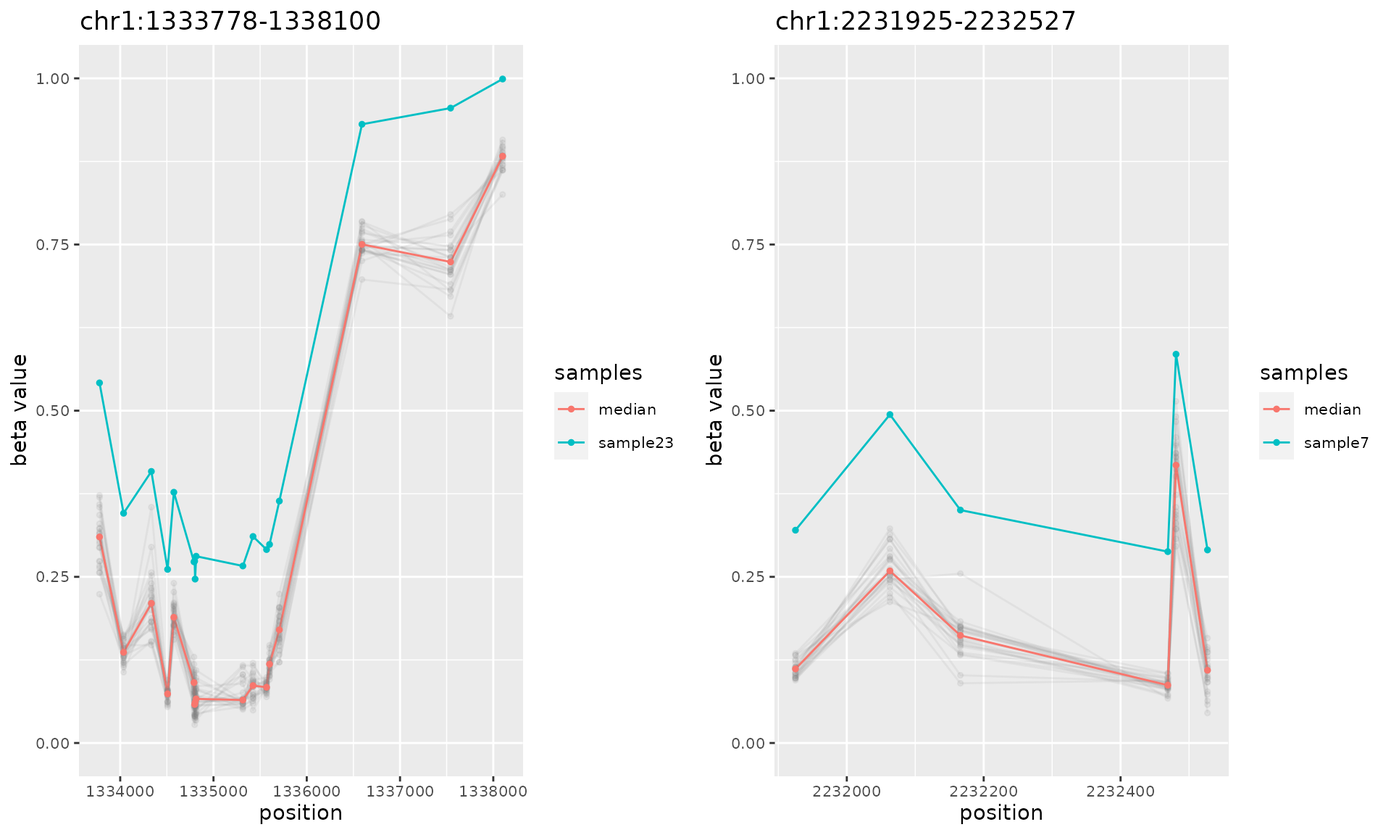
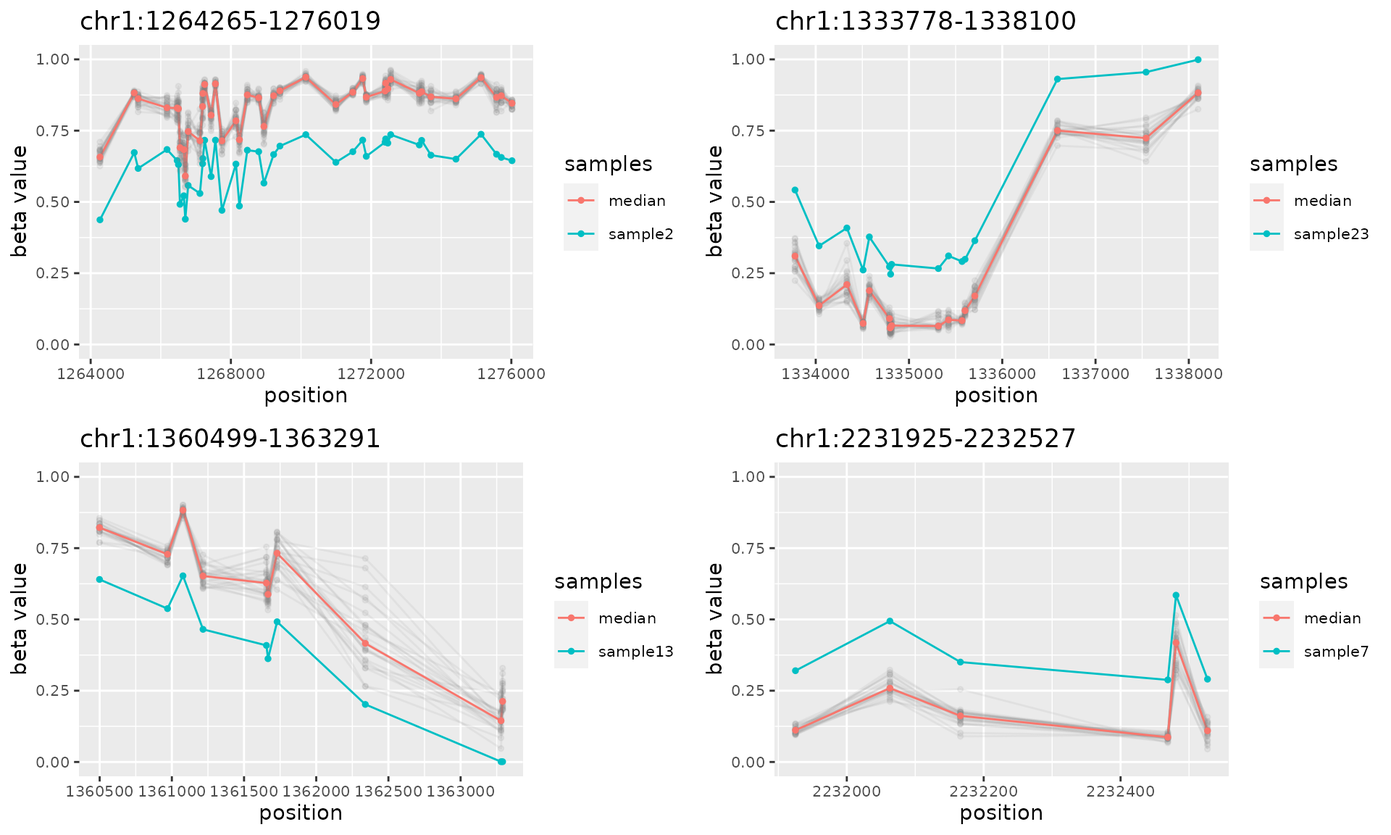
Built site for ramr: 1.1.2@1a902dc

diff --git a/articles/ramr.html b/articles/ramr.html
@@ -33,7 +33,7 @@
       </button>
       <span class="navbar-brand">
         <a class="navbar-link" href="../index.html">ramr</a>
-        <span class="version label label-default" data-toggle="tooltip" data-placement="bottom" title="Released version">1.1.0</span>
+        <span class="version label label-default" data-toggle="tooltip" data-placement="bottom" title="Released version">1.1.2</span>
       </span>
     </div>
 
@@ -264,7 +264,7 @@ mcols(data.ranges) &lt;- data.betas
 
 <span class="co"># non-unique AMRs outside of regions with unique AMRs</span>
   <span class="va">amrs.nonunique</span> <span class="op">&lt;-</span>
-    <span class="fu"><a href="../reference/simulateAMR.html">simulateAMR</a></span><span class="op">(</span><span class="va">ramr.data</span>, nsamples<span class="op">=</span><span class="fl">3</span>, exclude.ranges<span class="op">=</span><span class="va">amrs.unique</span>,
+    <span class="fu"><a href="../reference/simulateAMR.html">simulateAMR</a></span><span class="op">(</span><span class="va">ramr.data</span>, nsamples<span class="op">=</span><span class="fl">4</span>, exclude.ranges<span class="op">=</span><span class="va">amrs.unique</span>,
                 samples.per.region<span class="op">=</span><span class="fl">2</span>, min.cpgs<span class="op">=</span><span class="fl">5</span>, merge.window<span class="op">=</span><span class="fl">1000</span><span class="op">)</span>
   
 <span class="co"># random noise outside of AMR regions</span>
@@ -276,14 +276,14 @@ mcols(data.ranges) &lt;- data.betas
 <span class="co"># "smooth" methylation data without AMRs (negative control)</span>
   <span class="va">smooth.data</span> <span class="op">&lt;-</span>
     <span class="fu"><a href="../reference/simulateData.html">simulateData</a></span><span class="op">(</span><span class="va">ramr.data</span>, nsamples<span class="op">=</span><span class="fl">25</span>, cores<span class="op">=</span><span class="fl">2</span><span class="op">)</span>
-<span class="co">#&gt; Simulating data [1.132s]</span>
+<span class="co">#&gt; Simulating data [1.125s]</span>
   
 <span class="co"># methylation data with AMRs and noise</span>
   <span class="va">noisy.data</span> <span class="op">&lt;-</span>
     <span class="fu"><a href="../reference/simulateData.html">simulateData</a></span><span class="op">(</span><span class="va">ramr.data</span>, nsamples<span class="op">=</span><span class="fl">25</span>,
                  amr.ranges<span class="op">=</span><span class="fu"><a href="https://rdrr.io/pkg/S4Vectors/man/Vector-class.html" class="external-link">c</a></span><span class="op">(</span><span class="va">amrs.unique</span>, <span class="va">amrs.nonunique</span>, <span class="va">noise</span><span class="op">)</span>, cores<span class="op">=</span><span class="fl">2</span><span class="op">)</span>
-<span class="co">#&gt; Simulating data [1.103s]</span>
-<span class="co">#&gt; Introducing epimutations [2.384s]</span>
+<span class="co">#&gt; Simulating data [1.056s]</span>
+<span class="co">#&gt; Introducing epimutations [2.371s]</span>
   
 <span class="co"># that's how regions look like</span>
   <span class="kw"><a href="https://rdrr.io/r/base/library.html" class="external-link">library</a></span><span class="op">(</span><span class="va">gridExtra</span><span class="op">)</span>
@@ -294,13 +294,13 @@ mcols(data.ranges) &lt;- data.betas
 <span class="co">#&gt; </span>
 <span class="co">#&gt;     combine</span>
 
-  <span class="fu"><a href="https://rdrr.io/pkg/BiocGenerics/man/do.call.html" class="external-link">do.call</a></span><span class="op">(</span><span class="st">"grid.arrange"</span>, <span class="fu"><a href="https://rdrr.io/pkg/S4Vectors/man/Vector-class.html" class="external-link">c</a></span><span class="op">(</span><span class="fu"><a href="../reference/plotAMR.html">plotAMR</a></span><span class="op">(</span><span class="va">noisy.data</span>, <span class="cn">NULL</span>, <span class="va">amrs.unique</span><span class="op">[</span><span class="fl">1</span><span class="op">:</span><span class="fl">2</span><span class="op">]</span><span class="op">)</span>, ncol<span class="op">=</span><span class="fl">2</span><span class="op">)</span><span class="op">)</span></code></pre></div>
+  <span class="fu"><a href="https://rdrr.io/pkg/BiocGenerics/man/do.call.html" class="external-link">do.call</a></span><span class="op">(</span><span class="st">"grid.arrange"</span>, <span class="fu"><a href="https://rdrr.io/pkg/S4Vectors/man/Vector-class.html" class="external-link">c</a></span><span class="op">(</span><span class="fu"><a href="../reference/plotAMR.html">plotAMR</a></span><span class="op">(</span><span class="va">noisy.data</span>, amr.ranges<span class="op">=</span><span class="va">amrs.unique</span><span class="op">[</span><span class="fl">1</span><span class="op">:</span><span class="fl">4</span><span class="op">]</span><span class="op">)</span>, ncol<span class="op">=</span><span class="fl">2</span><span class="op">)</span><span class="op">)</span></code></pre></div>
 <p><img src="ramr_files/figure-html/unnamed-chunk-3-1.png" width="100%" height="100%"></p>
 <div class="sourceCode" id="cb7"><pre class="downlit sourceCode r">
-<code class="sourceCode R">  <span class="fu"><a href="https://rdrr.io/pkg/BiocGenerics/man/do.call.html" class="external-link">do.call</a></span><span class="op">(</span><span class="st">"grid.arrange"</span>, <span class="fu"><a href="https://rdrr.io/pkg/S4Vectors/man/Vector-class.html" class="external-link">c</a></span><span class="op">(</span><span class="fu"><a href="../reference/plotAMR.html">plotAMR</a></span><span class="op">(</span><span class="va">noisy.data</span>, <span class="cn">NULL</span>, <span class="fu"><a href="https://rdrr.io/pkg/BiocGenerics/man/sort.html" class="external-link">sort</a></span><span class="op">(</span><span class="va">amrs.nonunique</span><span class="op">)</span><span class="op">[</span><span class="fl">1</span><span class="op">:</span><span class="fl">6</span><span class="op">]</span><span class="op">)</span>, ncol<span class="op">=</span><span class="fl">2</span><span class="op">)</span><span class="op">)</span></code></pre></div>
+<code class="sourceCode R">  <span class="fu"><a href="https://rdrr.io/pkg/BiocGenerics/man/do.call.html" class="external-link">do.call</a></span><span class="op">(</span><span class="st">"grid.arrange"</span>, <span class="fu"><a href="https://rdrr.io/pkg/S4Vectors/man/Vector-class.html" class="external-link">c</a></span><span class="op">(</span><span class="fu"><a href="../reference/plotAMR.html">plotAMR</a></span><span class="op">(</span><span class="va">noisy.data</span>, amr.ranges<span class="op">=</span><span class="fu"><a href="https://rdrr.io/pkg/BiocGenerics/man/sort.html" class="external-link">sort</a></span><span class="op">(</span><span class="va">amrs.nonunique</span><span class="op">)</span><span class="op">[</span><span class="fl">1</span><span class="op">:</span><span class="fl">8</span><span class="op">]</span><span class="op">)</span>, ncol<span class="op">=</span><span class="fl">2</span><span class="op">)</span><span class="op">)</span></code></pre></div>
 <p><img src="ramr_files/figure-html/unnamed-chunk-3-2.png" width="100%" height="100%"></p>
 <div class="sourceCode" id="cb8"><pre class="downlit sourceCode r">
-<code class="sourceCode R">  <span class="fu"><a href="https://rdrr.io/pkg/BiocGenerics/man/do.call.html" class="external-link">do.call</a></span><span class="op">(</span><span class="st">"grid.arrange"</span>, <span class="fu"><a href="https://rdrr.io/pkg/S4Vectors/man/Vector-class.html" class="external-link">c</a></span><span class="op">(</span><span class="fu"><a href="../reference/plotAMR.html">plotAMR</a></span><span class="op">(</span><span class="va">noisy.data</span>, <span class="cn">NULL</span>, <span class="va">noise</span><span class="op">[</span><span class="fl">1</span><span class="op">:</span><span class="fl">2</span><span class="op">]</span><span class="op">)</span>, ncol<span class="op">=</span><span class="fl">2</span><span class="op">)</span><span class="op">)</span>
+<code class="sourceCode R">  <span class="fu"><a href="https://rdrr.io/pkg/BiocGenerics/man/do.call.html" class="external-link">do.call</a></span><span class="op">(</span><span class="st">"grid.arrange"</span>, <span class="fu"><a href="https://rdrr.io/pkg/S4Vectors/man/Vector-class.html" class="external-link">c</a></span><span class="op">(</span><span class="fu"><a href="../reference/plotAMR.html">plotAMR</a></span><span class="op">(</span><span class="va">noisy.data</span>, amr.ranges<span class="op">=</span><span class="va">noise</span><span class="op">[</span><span class="fl">1</span><span class="op">:</span><span class="fl">4</span><span class="op">]</span><span class="op">)</span>, ncol<span class="op">=</span><span class="fl">2</span><span class="op">)</span><span class="op">)</span>
 <span class="co">#&gt; geom_path: Each group consists of only one observation. Do you need to adjust the group</span>
 <span class="co">#&gt; aesthetic?</span></code></pre></div>
 <p><img src="ramr_files/figure-html/unnamed-chunk-3-3.png" width="100%" height="100%"></p>
@@ -309,28 +309,34 @@ mcols(data.ranges) &lt;- data.betas
 <span class="co"># can we find them?</span>
   <span class="fu"><a href="https://rdrr.io/r/base/system.time.html" class="external-link">system.time</a></span><span class="op">(</span><span class="va">found</span> <span class="op">&lt;-</span> <span class="fu"><a href="../reference/getAMR.html">getAMR</a></span><span class="op">(</span><span class="va">noisy.data</span>, ramr.method<span class="op">=</span><span class="st">"beta"</span>, min.cpgs<span class="op">=</span><span class="fl">5</span>,
                               merge.window<span class="op">=</span><span class="fl">1000</span>, qval.cutoff<span class="op">=</span><span class="fl">1e-2</span>, cores<span class="op">=</span><span class="fl">2</span><span class="op">)</span><span class="op">)</span>
-<span class="co">#&gt; Identifying AMRs [4.360s]</span>
+<span class="co">#&gt; Identifying AMRs [4.288s]</span>
 <span class="co">#&gt;    user  system elapsed </span>
-<span class="co">#&gt;   7.097   0.863   4.537</span>
+<span class="co">#&gt;   7.004   0.776   4.453</span>
   
 <span class="co"># all possible regions</span>
   <span class="va">all.ranges</span> <span class="op">&lt;-</span> <span class="fu"><a href="../reference/getUniverse.html">getUniverse</a></span><span class="op">(</span><span class="va">noisy.data</span>, min.cpgs<span class="op">=</span><span class="fl">5</span>, merge.window<span class="op">=</span><span class="fl">1000</span><span class="op">)</span>
   
 <span class="co"># true positives</span>
-  <span class="fu"><a href="https://rdrr.io/r/base/sum.html" class="external-link">sum</a></span><span class="op">(</span><span class="va">found</span> <span class="op"><a href="https://rdrr.io/pkg/IRanges/man/findOverlaps-methods.html" class="external-link">%over%</a></span> <span class="fu"><a href="https://rdrr.io/pkg/S4Vectors/man/Vector-class.html" class="external-link">c</a></span><span class="op">(</span><span class="va">amrs.unique</span>, <span class="va">amrs.nonunique</span><span class="op">)</span><span class="op">)</span>
-<span class="co">#&gt; [1] 56</span>
+  <span class="va">tp</span> <span class="op">&lt;-</span> <span class="fu"><a href="https://rdrr.io/r/base/sum.html" class="external-link">sum</a></span><span class="op">(</span><span class="va">found</span> <span class="op"><a href="https://rdrr.io/pkg/IRanges/man/findOverlaps-methods.html" class="external-link">%over%</a></span> <span class="fu"><a href="https://rdrr.io/pkg/S4Vectors/man/Vector-class.html" class="external-link">c</a></span><span class="op">(</span><span class="va">amrs.unique</span>, <span class="va">amrs.nonunique</span><span class="op">)</span><span class="op">)</span>
   
 <span class="co"># false positives</span>
-  <span class="fu"><a href="https://rdrr.io/r/base/sum.html" class="external-link">sum</a></span><span class="op">(</span><span class="va">found</span> <span class="op"><a href="https://rdrr.io/pkg/IRanges/man/findOverlaps-methods.html" class="external-link">%outside%</a></span> <span class="fu"><a href="https://rdrr.io/pkg/S4Vectors/man/Vector-class.html" class="external-link">c</a></span><span class="op">(</span><span class="va">amrs.unique</span>, <span class="va">amrs.nonunique</span><span class="op">)</span><span class="op">)</span>
-<span class="co">#&gt; [1] 0</span>
+  <span class="va">fp</span> <span class="op">&lt;-</span> <span class="fu"><a href="https://rdrr.io/r/base/sum.html" class="external-link">sum</a></span><span class="op">(</span><span class="va">found</span> <span class="op"><a href="https://rdrr.io/pkg/IRanges/man/findOverlaps-methods.html" class="external-link">%outside%</a></span> <span class="fu"><a href="https://rdrr.io/pkg/S4Vectors/man/Vector-class.html" class="external-link">c</a></span><span class="op">(</span><span class="va">amrs.unique</span>, <span class="va">amrs.nonunique</span><span class="op">)</span><span class="op">)</span>
 
 <span class="co"># true negatives</span>
-  <span class="fu"><a href="https://rdrr.io/r/base/length.html" class="external-link">length</a></span><span class="op">(</span><span class="va">all.ranges</span> <span class="op"><a href="https://rdrr.io/pkg/IRanges/man/findOverlaps-methods.html" class="external-link">%outside%</a></span> <span class="fu"><a href="https://rdrr.io/pkg/S4Vectors/man/Vector-class.html" class="external-link">c</a></span><span class="op">(</span><span class="va">amrs.unique</span>, <span class="va">amrs.nonunique</span><span class="op">)</span><span class="op">)</span>
-<span class="co">#&gt; [1] 206</span>
+  <span class="va">tn</span> <span class="op">&lt;-</span> <span class="fu"><a href="https://rdrr.io/r/base/length.html" class="external-link">length</a></span><span class="op">(</span><span class="va">all.ranges</span> <span class="op"><a href="https://rdrr.io/pkg/IRanges/man/findOverlaps-methods.html" class="external-link">%outside%</a></span> <span class="fu"><a href="https://rdrr.io/pkg/S4Vectors/man/Vector-class.html" class="external-link">c</a></span><span class="op">(</span><span class="va">amrs.unique</span>, <span class="va">amrs.nonunique</span><span class="op">)</span><span class="op">)</span>
   
 <span class="co"># false negatives</span>
-  <span class="fu"><a href="https://rdrr.io/r/base/sum.html" class="external-link">sum</a></span><span class="op">(</span><span class="fu"><a href="https://rdrr.io/pkg/S4Vectors/man/Vector-class.html" class="external-link">c</a></span><span class="op">(</span><span class="va">amrs.unique</span>, <span class="va">amrs.nonunique</span><span class="op">)</span> <span class="op"><a href="https://rdrr.io/pkg/IRanges/man/findOverlaps-methods.html" class="external-link">%outside%</a></span> <span class="va">found</span><span class="op">)</span>
-<span class="co">#&gt; [1] 1</span></code></pre></div>
+  <span class="va">fn</span> <span class="op">&lt;-</span> <span class="fu"><a href="https://rdrr.io/r/base/sum.html" class="external-link">sum</a></span><span class="op">(</span><span class="fu"><a href="https://rdrr.io/pkg/S4Vectors/man/Vector-class.html" class="external-link">c</a></span><span class="op">(</span><span class="va">amrs.unique</span>, <span class="va">amrs.nonunique</span><span class="op">)</span> <span class="op"><a href="https://rdrr.io/pkg/IRanges/man/findOverlaps-methods.html" class="external-link">%outside%</a></span> <span class="va">found</span><span class="op">)</span>
+  
+<span class="co"># accuracy, MCC</span>
+  <span class="va">acc</span> <span class="op">&lt;-</span> <span class="op">(</span><span class="va">tp</span><span class="op">+</span><span class="va">tn</span><span class="op">)</span> <span class="op">/</span> <span class="op">(</span><span class="va">tp</span><span class="op">+</span><span class="va">tn</span><span class="op">+</span><span class="va">fp</span><span class="op">+</span><span class="va">fn</span><span class="op">)</span>
+  <span class="va">mcc</span> <span class="op">&lt;-</span> <span class="op">(</span><span class="va">tp</span><span class="op">*</span><span class="va">tn</span> <span class="op">-</span> <span class="va">fp</span><span class="op">*</span><span class="va">fn</span><span class="op">)</span> <span class="op">/</span> <span class="op">(</span><span class="fu"><a href="https://rdrr.io/r/base/MathFun.html" class="external-link">sqrt</a></span><span class="op">(</span><span class="va">tp</span><span class="op">+</span><span class="va">fp</span><span class="op">)</span><span class="op">*</span><span class="fu"><a href="https://rdrr.io/r/base/MathFun.html" class="external-link">sqrt</a></span><span class="op">(</span><span class="va">tp</span><span class="op">+</span><span class="va">fn</span><span class="op">)</span><span class="op">*</span><span class="fu"><a href="https://rdrr.io/r/base/MathFun.html" class="external-link">sqrt</a></span><span class="op">(</span><span class="va">tn</span><span class="op">+</span><span class="va">fp</span><span class="op">)</span><span class="op">*</span><span class="fu"><a href="https://rdrr.io/r/base/MathFun.html" class="external-link">sqrt</a></span><span class="op">(</span><span class="va">tn</span><span class="op">+</span><span class="va">fn</span><span class="op">)</span><span class="op">)</span>
+  <span class="fu"><a href="https://rdrr.io/r/stats/setNames.html" class="external-link">setNames</a></span><span class="op">(</span><span class="fu"><a href="https://rdrr.io/pkg/S4Vectors/man/Vector-class.html" class="external-link">c</a></span><span class="op">(</span><span class="va">tp</span>, <span class="va">fp</span>, <span class="va">tn</span>, <span class="va">fn</span><span class="op">)</span>, <span class="fu"><a href="https://rdrr.io/pkg/S4Vectors/man/Vector-class.html" class="external-link">c</a></span><span class="op">(</span><span class="st">"TP"</span>, <span class="st">"FP"</span>, <span class="st">"TN"</span>, <span class="st">"FN"</span><span class="op">)</span><span class="op">)</span>
+<span class="co">#&gt;  TP  FP  TN  FN </span>
+<span class="co">#&gt;  57   0 206   1</span>
+  <span class="fu"><a href="https://rdrr.io/r/stats/setNames.html" class="external-link">setNames</a></span><span class="op">(</span><span class="fu"><a href="https://rdrr.io/pkg/S4Vectors/man/Vector-class.html" class="external-link">c</a></span><span class="op">(</span><span class="va">acc</span>, <span class="va">mcc</span><span class="op">)</span>, <span class="fu"><a href="https://rdrr.io/pkg/S4Vectors/man/Vector-class.html" class="external-link">c</a></span><span class="op">(</span><span class="st">"accuracy"</span>, <span class="st">"MCC"</span><span class="op">)</span><span class="op">)</span>
+<span class="co">#&gt;  accuracy       MCC </span>
+<span class="co">#&gt; 0.9962121 0.9889444</span></code></pre></div>
 </div>
 <div id="amr-identification" class="section level1">
 <h1 class="hasAnchor">
@@ -340,7 +346,7 @@ mcols(data.ranges) &lt;- data.betas
 <code class="sourceCode R"><span class="co"># identify AMRs</span>
 <span class="va">amrs</span> <span class="op">&lt;-</span> <span class="fu"><a href="../reference/getAMR.html">getAMR</a></span><span class="op">(</span><span class="va">ramr.data</span>, <span class="va">ramr.samples</span>, ramr.method<span class="op">=</span><span class="st">"beta"</span>, min.cpgs<span class="op">=</span><span class="fl">5</span>,
                merge.window<span class="op">=</span><span class="fl">1000</span>, qval.cutoff<span class="op">=</span><span class="fl">1e-3</span>, cores<span class="op">=</span><span class="fl">2</span><span class="op">)</span>
-<span class="co">#&gt; Identifying AMRs [12.997s]</span>
+<span class="co">#&gt; Identifying AMRs [13.363s]</span>
 
 <span class="co"># inspect</span>
 <span class="fu"><a href="https://rdrr.io/pkg/BiocGenerics/man/sort.html" class="external-link">sort</a></span><span class="op">(</span><span class="va">amrs</span><span class="op">)</span>
@@ -482,7 +488,7 @@ runLOLA(amrs, universe, hg19.coredb, cores=1, redefineUserSets=TRUE)</code></pre
 <span class="co">#&gt;  [1] org.Hs.eg.db_3.13.0                     TxDb.Hsapiens.UCSC.hg19.knownGene_3.2.2</span>
 <span class="co">#&gt;  [3] GenomicFeatures_1.45.0                  AnnotationDbi_1.55.0                   </span>
 <span class="co">#&gt;  [5] Biobase_2.53.0                          annotatr_1.19.0                        </span>
-<span class="co">#&gt;  [7] gridExtra_2.3                           ramr_1.1.0                             </span>
+<span class="co">#&gt;  [7] gridExtra_2.3                           ramr_1.1.2                             </span>
 <span class="co">#&gt;  [9] doRNG_1.8.2                             rngtools_1.5                           </span>
 <span class="co">#&gt; [11] doParallel_1.0.16                       iterators_1.0.13                       </span>
 <span class="co">#&gt; [13] foreach_1.5.1                           GenomicRanges_1.45.0                   </span>

diff --git a/index.html b/index.html
@@ -39,7 +39,7 @@
       </button>
       <span class="navbar-brand">
         <a class="navbar-link" href="index.html">ramr</a>
-        <span class="version label label-default" data-toggle="tooltip" data-placement="bottom" title="Released version">1.1.0</span>
+        <span class="version label label-default" data-toggle="tooltip" data-placement="bottom" title="Released version">1.1.2</span>
       </span>
     </div>
 
@@ -81,7 +81,7 @@
 <h1 class="hasAnchor">
 <a href="#introduction" class="anchor" aria-hidden="true"></a>Introduction</h1>
 <p><em><code>ramr</code></em> is an R package for detection of low-frequency aberrant methylation events in large datasets obtained by methylation profiling using array or high-throughput bisulfite sequencing. In addition, package provides functions to visualize found aberrantly methylated regions (AMRs), to generate sets of all possible regions to be used as reference sets for enrichment analysis, and to generate biologically relevant test datasets for performance evaluation of AMR/DMR search algorithms.</p>
-<p>This readme contains condensed info on <em><code>ramr</code></em> usage. For more, please check function-specific help pages and vignettes.</p>
+<p>This readme contains condensed info on <em><code>ramr</code></em> usage. For more, please check function-specific help pages and vignettes within the R environment or at <a href="https://bbcg.github.io/ramr/articles/ramr.html" class="external-link">GitHub pages</a>.</p>
 <div id="current-features" class="section level2">
 <h2 class="hasAnchor">
 <a href="#current-features" class="anchor" aria-hidden="true"></a>Current Features</h2>
@@ -186,12 +186,12 @@
   
 <span class="co"># that's how regions look like</span>
 <span class="kw"><a href="https://rdrr.io/r/base/library.html" class="external-link">library</a></span><span class="op">(</span><span class="va">gridExtra</span><span class="op">)</span>
-<span class="fu"><a href="https://rdrr.io/r/base/do.call.html" class="external-link">do.call</a></span><span class="op">(</span><span class="st">"grid.arrange"</span>, <span class="fu"><a href="https://rdrr.io/r/base/c.html" class="external-link">c</a></span><span class="op">(</span><span class="fu"><a href="reference/plotAMR.html">plotAMR</a></span><span class="op">(</span><span class="va">data.with.amrs</span>, <span class="cn">NULL</span>, <span class="va">amrs.unique</span><span class="op">[</span><span class="fl">1</span><span class="op">:</span><span class="fl">2</span><span class="op">]</span><span class="op">)</span>, ncol<span class="op">=</span><span class="fl">2</span><span class="op">)</span><span class="op">)</span></code></pre></div>
+<span class="fu"><a href="https://rdrr.io/r/base/do.call.html" class="external-link">do.call</a></span><span class="op">(</span><span class="st">"grid.arrange"</span>, <span class="fu"><a href="https://rdrr.io/r/base/c.html" class="external-link">c</a></span><span class="op">(</span><span class="fu"><a href="reference/plotAMR.html">plotAMR</a></span><span class="op">(</span><span class="va">data.with.amrs</span>, amr.ranges<span class="op">=</span><span class="va">amrs.unique</span><span class="op">[</span><span class="fl">1</span><span class="op">:</span><span class="fl">2</span><span class="op">]</span><span class="op">)</span>, ncol<span class="op">=</span><span class="fl">2</span><span class="op">)</span><span class="op">)</span></code></pre></div>
 <p>The input (or template) object may be obtained using data from various sources. Here we provide two examples:</p>
 <div id="using-data-from-ncbi-geo" class="section level3">
 <h3 class="hasAnchor">
 <a href="#using-data-from-ncbi-geo" class="anchor" aria-hidden="true"></a>Using data from NCBI GEO</h3>
-<p>The following code pulls (NB: very large) raw files from NCBI GEO database, performes normalization and creates <em><code>GRanges</code></em> object for further analysis using <em><code>ramr</code></em> (system requirements: 22GB of disk space, 64GB of RAM)</p>
+<p>The following code pulls (NB: very large) raw files from NCBI GEO database, performs normalization and creates <em><code>GRanges</code></em> object for further analysis using <em><code>ramr</code></em> (system requirements: 22GB of disk space, 64GB of RAM)</p>
 <div class="sourceCode" id="cb6"><pre class="downlit sourceCode r">
 <code class="sourceCode R"><span class="kw"><a href="https://rdrr.io/r/base/library.html" class="external-link">library</a></span><span class="op">(</span><span class="va">minfi</span><span class="op">)</span>
 <span class="kw"><a href="https://rdrr.io/r/base/library.html" class="external-link">library</a></span><span class="op">(</span><span class="va">GEOquery</span><span class="op">)</span>

diff --git a/reference/getUniverse.html b/reference/getUniverse.html
@@ -40,7 +40,7 @@
 
 
 <meta property="og:title" content="Merges, filters and outputs all genomic regions of a given `GRanges` object — getUniverse" />
-<meta property="og:description" content="`getUniverse` returns a GRanges object with all the genomic regions in a
+<meta property="og:description" content="`getUniverse` returns a `GRanges` object with all the genomic regions in a
 dataset, that can be used for AMR enrichment analysis" />
 
 
@@ -82,7 +82,7 @@ dataset, that can be used for AMR enrichment analysis" />
       </button>
       <span class="navbar-brand">
         <a class="navbar-link" href="../index.html">ramr</a>
-        <span class="version label label-default" data-toggle="tooltip" data-placement="bottom" title="Released version">1.1.0</span>
+        <span class="version label label-default" data-toggle="tooltip" data-placement="bottom" title="Released version">1.1.2</span>
       </span>
     </div>
 
@@ -121,7 +121,7 @@ dataset, that can be used for AMR enrichment analysis" />
     </div>
 
     <div class="ref-description">
-    <p>`getUniverse` returns a GRanges object with all the genomic regions in a
+    <p>`getUniverse` returns a `GRanges` object with all the genomic regions in a
 dataset, that can be used for AMR enrichment analysis</p>
     </div>
 
@@ -137,7 +137,7 @@ corresponding beta values included as metadata.</p></td>
     </tr>
     <tr>
       <th>merge.window</th>
-      <td><p>A positive integer. All `data.ranges` genomic locations
+      <td><p>A single integer &gt;= 1. All `data.ranges` genomic locations
 within this distance will be merged (the default: 300).</p></td>
     </tr>
     <tr>
@@ -176,7 +176,7 @@ and `ramr` vignettes for the description of usage and sample data.</p></div>
 <span class='r-in'>  <span class='va'>amrs</span> <span class='op'>&lt;-</span> <span class='fu'><a href='getAMR.html'>getAMR</a></span><span class='op'>(</span><span class='va'>ramr.data</span>, <span class='va'>ramr.samples</span>, ramr.method<span class='op'>=</span><span class='st'>"beta"</span>, min.cpgs<span class='op'>=</span><span class='fl'>5</span>,</span>
 <span class='r-in'>                 merge.window<span class='op'>=</span><span class='fl'>1000</span>, qval.cutoff<span class='op'>=</span><span class='fl'>1e-3</span>, cores<span class='op'>=</span><span class='fl'>2</span><span class='op'>)</span></span>
 <span class='r-msg co'><span class='r-pr'>#&gt;</span> Identifying AMRs</span>
-<span class='r-msg co'><span class='r-pr'>#&gt;</span>  [13.886s]</span>
+<span class='r-msg co'><span class='r-pr'>#&gt;</span>  [13.822s]</span>
 <span class='r-in'></span>
 <span class='r-in'>  <span class='co'># AMR enrichment analysis using LOLA</span></span>
 <span class='r-in'>  <span class='kw'><a href='https://rdrr.io/r/base/library.html'>library</a></span><span class='op'>(</span><span class='va'><a href='http://code.databio.org/LOLA'>LOLA</a></span><span class='op'>)</span></span>

diff --git a/reference/plotAMR.html b/reference/plotAMR.html
@@ -82,7 +82,7 @@ at particular genomic locations." />
       </button>
       <span class="navbar-brand">
         <a class="navbar-link" href="../index.html">ramr</a>
-        <span class="version label label-default" data-toggle="tooltip" data-placement="bottom" title="Released version">1.1.0</span>
+        <span class="version label label-default" data-toggle="tooltip" data-placement="bottom" title="Released version">1.1.2</span>
       </span>
     </div>
 
@@ -128,7 +128,7 @@ at particular genomic locations.</p>
     <div class="ref-usage sourceCode"><pre class='sourceCode r'><code><span class='fu'>plotAMR</span><span class='op'>(</span>
   <span class='va'>data.ranges</span>,
   data.samples <span class='op'>=</span> <span class='cn'>NULL</span>,
-  <span class='va'>ramr.ranges</span>,
+  <span class='va'>amr.ranges</span>,
   highlight <span class='op'>=</span> <span class='cn'>NULL</span>,
   title <span class='op'>=</span> <span class='cn'>NULL</span>,
   window <span class='op'>=</span> <span class='fl'>300</span>
@@ -149,7 +149,7 @@ metadata column names) to be included in the plot. If `NULL` (the default),
 then all samples (metadata columns) are included.</p></td>
     </tr>
     <tr>
-      <th>ramr.ranges</th>
+      <th>amr.ranges</th>
       <td><p>An output of `getAMR` - a `GRanges` object that contain
 aberrantly methylated regions (AMRs).</p></td>
     </tr>
@@ -157,7 +157,7 @@ aberrantly methylated regions (AMRs).</p></td>
       <th>highlight</th>
       <td><p>An optional list of samples to highlight. If NULL (the
 default), will contain sample IDs from the `sample` metadata column of
-`ramr.ranges` object.</p></td>
+`amr.ranges` object.</p></td>
     </tr>
     <tr>
       <th>title</th>
@@ -167,7 +167,7 @@ title is set to a genomic location of particular AMR.</p></td>
     <tr>
       <th>window</th>
       <td><p>An optional integer constant to expand genomic ranges of the
-`ramr.ranges` object (the default: 300).</p></td>
+`amr.ranges` object (the default: 300).</p></td>
     </tr>
     </table>
 
@@ -176,11 +176,11 @@ title is set to a genomic location of particular AMR.</p></td>
     <p>The output is a list of `ggplot` objects.</p>
     <h2 class="hasAnchor" id="details"><a class="anchor" href="#details"></a>Details</h2>
 
-    <p>For every non-overlapping genomic location from `ramr.ranges` object,
+    <p>For every non-overlapping genomic location from `amr.ranges` object,
 `plotAMR` plots and outputs a line graph of methylation beta values taken
 from `data.ranges` for all samples from `data.samples`. Samples bearing
 significantly different methylation profiles ('sample' column of
-`ramr.ranges` object) are highlighted.</p>
+`amr.ranges` object) are highlighted.</p>
     <h2 class="hasAnchor" id="see-also"><a class="anchor" href="#see-also"></a>See also</h2>
 
     <div class='dont-index'><p><code><a href='getAMR.html'>getAMR</a></code> for identification of AMRs,

diff --git a/reference/ramr.data.html b/reference/ramr.data.html
@@ -47,7 +47,7 @@ Current dataset (&quot;ramr.data&quot;) contains beta values for 10000 CpGs
 and 100 samples (&quot;ramr.samples&quot;), and carries 6 unique
 (&quot;ramr.tp.unique&quot;) and 15 non-unique (&quot;ramr.tp.nonunique&quot;)
 true positive AMRs containing at least 10 CpGs with their beta values
-increased/decreased by 0.5" />
+increased/decreased by 0.5." />
 
 
 
@@ -88,7 +88,7 @@ increased/decreased by 0.5" />
       </button>
       <span class="navbar-brand">
         <a class="navbar-link" href="../index.html">ramr</a>
-        <span class="version label label-default" data-toggle="tooltip" data-placement="bottom" title="Released version">1.1.0</span>
+        <span class="version label label-default" data-toggle="tooltip" data-placement="bottom" title="Released version">1.1.2</span>
       </span>
     </div>
 
@@ -133,7 +133,7 @@ Current dataset (<code>"ramr.data"</code>) contains beta values for 10000 CpGs
 and 100 samples (<code>"ramr.samples"</code>), and carries 6 unique
 (<code>"ramr.tp.unique"</code>) and 15 non-unique (<code>"ramr.tp.nonunique"</code>)
 true positive AMRs containing at least 10 CpGs with their beta values
-increased/decreased by 0.5</p>
+increased/decreased by 0.5.</p>
     </div>
 
     <div class="ref-usage sourceCode"><pre class='sourceCode r'><code><span class='fu'><a href='https://rdrr.io/r/utils/data.html'>data</a></span><span class='op'>(</span><span class='va'>ramr</span><span class='op'>)</span></code></pre></div>
@@ -153,7 +153,7 @@ ramr.tp.nonunique"</code>) and <code>"character"</code> (<code>"ramr.samples"</c
 <span class='r-in'>  <span class='va'>amrs</span> <span class='op'>&lt;-</span> <span class='fu'><a href='getAMR.html'>getAMR</a></span><span class='op'>(</span><span class='va'>ramr.data</span>, <span class='va'>ramr.samples</span>, ramr.method<span class='op'>=</span><span class='st'>"beta"</span>, min.cpgs<span class='op'>=</span><span class='fl'>5</span>,</span>
 <span class='r-in'>                 merge.window<span class='op'>=</span><span class='fl'>1000</span>, qval.cutoff<span class='op'>=</span><span class='fl'>1e-3</span>, cores<span class='op'>=</span><span class='fl'>2</span><span class='op'>)</span></span>
 <span class='r-msg co'><span class='r-pr'>#&gt;</span> Identifying AMRs</span>
-<span class='r-msg co'><span class='r-pr'>#&gt;</span>  [12.918s]</span>
+<span class='r-msg co'><span class='r-pr'>#&gt;</span>  [12.836s]</span>
 <span class='r-in'>  <span class='fu'><a href='plotAMR.html'>plotAMR</a></span><span class='op'>(</span><span class='va'>ramr.data</span>, <span class='va'>ramr.samples</span>, <span class='va'>amrs</span><span class='op'>[</span><span class='fl'>1</span><span class='op'>]</span><span class='op'>)</span></span>
 <span class='r-out co'><span class='r-pr'>#&gt;</span> [[1]]</span>
 <span class='r-plt'><img src='ramr.data-1.png' alt='' width='700' height='433' /></span>

diff --git a/reference/getAMR.html b/reference/getAMR.html
@@ -82,7 +82,7 @@ regions (AMRs) for all samples in a dataset." />
       </button>
       <span class="navbar-brand">
         <a class="navbar-link" href="../index.html">ramr</a>
-        <span class="version label label-default" data-toggle="tooltip" data-placement="bottom" title="Released version">1.1.0</span>
+        <span class="version label label-default" data-toggle="tooltip" data-placement="bottom" title="Released version">1.1.2</span>
       </span>
     </div>
 
@@ -254,7 +254,7 @@ distribution are estimated by means of `EnvStats::ebeta` or `ExtDist::eBeta`
 functions, and then used to calculate the probability values, followed by the
 filtering when all CpGs with p-values not greater than `qval.cutoff` are
 retained. Another filtering is then performed to exclude all CpGs within
-`exclude.range`. Next, the retained (significant) CpGs are merged with
+`exclude.range`. Next, the retained (significant) CpGs are merged within
 the window of `merge.window`, and final filtering is applied to AMR genomic
 ranges (by `min.cpgs` and `min.width`).</p>
     <h2 class="hasAnchor" id="see-also"><a class="anchor" href="#see-also"></a>See also</h2>
@@ -269,7 +269,7 @@ and `ramr` vignettes for the description of usage and sample data.</p></div>
 <span class='r-in'>  <span class='fu'>getAMR</span><span class='op'>(</span><span class='va'>ramr.data</span>, <span class='va'>ramr.samples</span>, ramr.method<span class='op'>=</span><span class='st'>"beta"</span>,</span>
 <span class='r-in'>         min.cpgs<span class='op'>=</span><span class='fl'>5</span>, merge.window<span class='op'>=</span><span class='fl'>1000</span>, qval.cutoff<span class='op'>=</span><span class='fl'>1e-3</span>, cores<span class='op'>=</span><span class='fl'>2</span><span class='op'>)</span></span>
 <span class='r-msg co'><span class='r-pr'>#&gt;</span> Identifying AMRs</span>
-<span class='r-msg co'><span class='r-pr'>#&gt;</span>  [13.746s]</span>
+<span class='r-msg co'><span class='r-pr'>#&gt;</span>  [13.354s]</span>
 <span class='r-out co'><span class='r-pr'>#&gt;</span> GRanges object with 22 ranges and 5 metadata columns:</span>
 <span class='r-out co'><span class='r-pr'>#&gt;</span>        seqnames          ranges strand |             revmap      ncpg</span>
 <span class='r-out co'><span class='r-pr'>#&gt;</span>           &lt;Rle&gt;       &lt;IRanges&gt;  &lt;Rle&gt; |             &lt;list&gt; &lt;integer&gt;</span>

diff --git a/reference/simulateData.html b/reference/simulateData.html
@@ -86,7 +86,7 @@ methylated regions." />
       </button>
       <span class="navbar-brand">
         <a class="navbar-link" href="../index.html">ramr</a>
-        <span class="version label label-default" data-toggle="tooltip" data-placement="bottom" title="Released version">1.1.0</span>
+        <span class="version label label-default" data-toggle="tooltip" data-placement="bottom" title="Released version">1.1.2</span>
       </span>
     </div>
 
@@ -250,10 +250,10 @@ usage and sample data.</p></div>
 <span class='r-in'>  <span class='va'>noisy.data</span> <span class='op'>&lt;-</span></span>
 <span class='r-in'>    <span class='fu'>simulateData</span><span class='op'>(</span><span class='va'>ramr.data</span>, nsamples<span class='op'>=</span><span class='fl'>10</span>, amr.ranges<span class='op'>=</span><span class='fu'><a href='https://rdrr.io/pkg/S4Vectors/man/Vector-class.html'>c</a></span><span class='op'>(</span><span class='va'>amrs</span>,<span class='va'>noise</span><span class='op'>)</span>, cores<span class='op'>=</span><span class='fl'>2</span><span class='op'>)</span></span>
 <span class='r-msg co'><span class='r-pr'>#&gt;</span> Simulating data</span>
-<span class='r-msg co'><span class='r-pr'>#&gt;</span>  [1.120s]</span>
+<span class='r-msg co'><span class='r-pr'>#&gt;</span>  [1.108s]</span>
 <span class='r-msg co'><span class='r-pr'>#&gt;</span> Introducing epimutations</span>
-<span class='r-msg co'><span class='r-pr'>#&gt;</span>  [1.049s]</span>
-<span class='r-in'>  <span class='fu'><a href='plotAMR.html'>plotAMR</a></span><span class='op'>(</span><span class='va'>noisy.data</span>, <span class='cn'>NULL</span>, <span class='va'>amrs</span><span class='op'>[</span><span class='fl'>1</span><span class='op'>]</span><span class='op'>)</span></span>
+<span class='r-msg co'><span class='r-pr'>#&gt;</span>  [1.016s]</span>
+<span class='r-in'>  <span class='fu'><a href='plotAMR.html'>plotAMR</a></span><span class='op'>(</span><span class='va'>noisy.data</span>, amr.ranges<span class='op'>=</span><span class='va'>amrs</span><span class='op'>[</span><span class='fl'>1</span><span class='op'>]</span><span class='op'>)</span></span>
 <span class='r-out co'><span class='r-pr'>#&gt;</span> [[1]]</span>
 <span class='r-plt'><img src='simulateData-1.png' alt='' width='700' height='433' /></span>
 <span class='r-out co'><span class='r-pr'>#&gt;</span> </span>

diff --git a/reference/simulateAMR.html b/reference/simulateAMR.html
@@ -83,7 +83,7 @@ selected aberrantly methylated regions (AMRs) to be used as an input for the
       </button>
       <span class="navbar-brand">
         <a class="navbar-link" href="../index.html">ramr</a>
-        <span class="version label label-default" data-toggle="tooltip" data-placement="bottom" title="Released version">1.1.0</span>
+        <span class="version label label-default" data-toggle="tooltip" data-placement="bottom" title="Released version">1.1.2</span>
       </span>
     </div>
 

diff --git a/articles/index.html b/articles/index.html
@@ -80,7 +80,7 @@
       </button>
       <span class="navbar-brand">
         <a class="navbar-link" href="../index.html">ramr</a>
-        <span class="version label label-default" data-toggle="tooltip" data-placement="bottom" title="Released version">1.1.0</span>
+        <span class="version label label-default" data-toggle="tooltip" data-placement="bottom" title="Released version">1.1.2</span>
       </span>
     </div>
 

diff --git a/reference/index.html b/reference/index.html
@@ -80,7 +80,7 @@
       </button>
       <span class="navbar-brand">
         <a class="navbar-link" href="../index.html">ramr</a>
-        <span class="version label label-default" data-toggle="tooltip" data-placement="bottom" title="Released version">1.1.0</span>
+        <span class="version label label-default" data-toggle="tooltip" data-placement="bottom" title="Released version">1.1.2</span>
       </span>
     </div>
 

diff --git a/404.html b/404.html
@@ -32,7 +32,7 @@
       </button>
       <span class="navbar-brand">
         <a class="navbar-link" href="index.html">ramr</a>
-        <span class="version label label-default" data-toggle="tooltip" data-placement="bottom" title="Released version">1.1.0</span>
+        <span class="version label label-default" data-toggle="tooltip" data-placement="bottom" title="Released version">1.1.2</span>
       </span>
     </div>
 

diff --git a/authors.html b/authors.html
@@ -80,7 +80,7 @@
       </button>
       <span class="navbar-brand">
         <a class="navbar-link" href="index.html">ramr</a>
-        <span class="version label label-default" data-toggle="tooltip" data-placement="bottom" title="Released version">1.1.0</span>
+        <span class="version label label-default" data-toggle="tooltip" data-placement="bottom" title="Released version">1.1.2</span>
       </span>
     </div>
 
